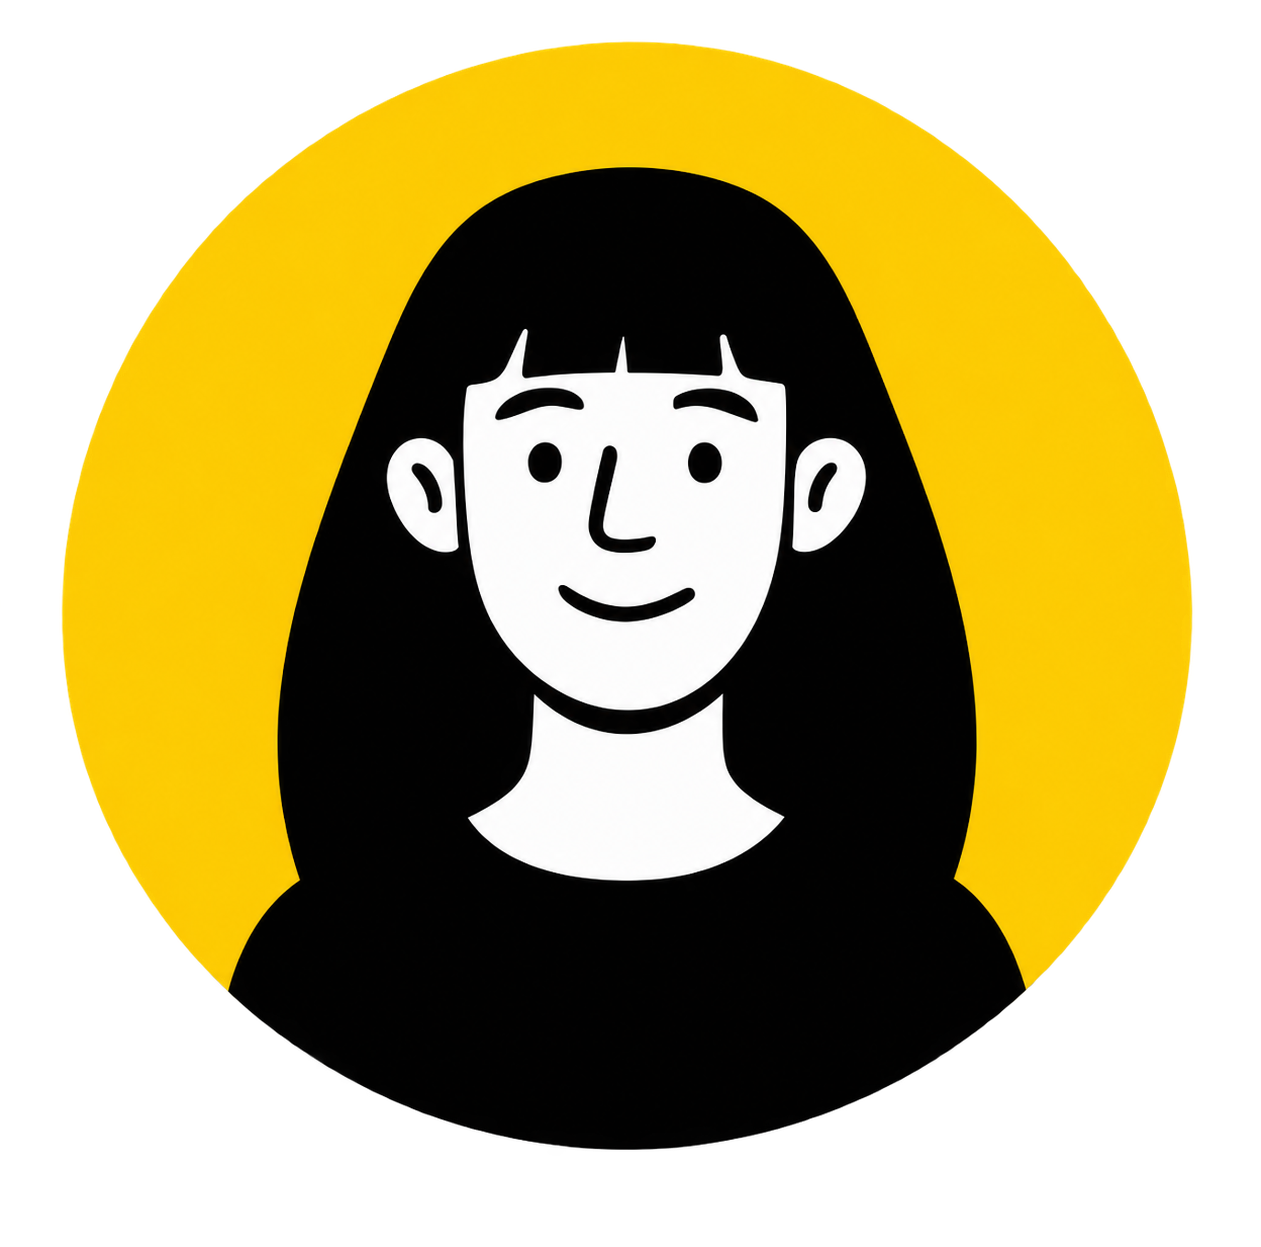
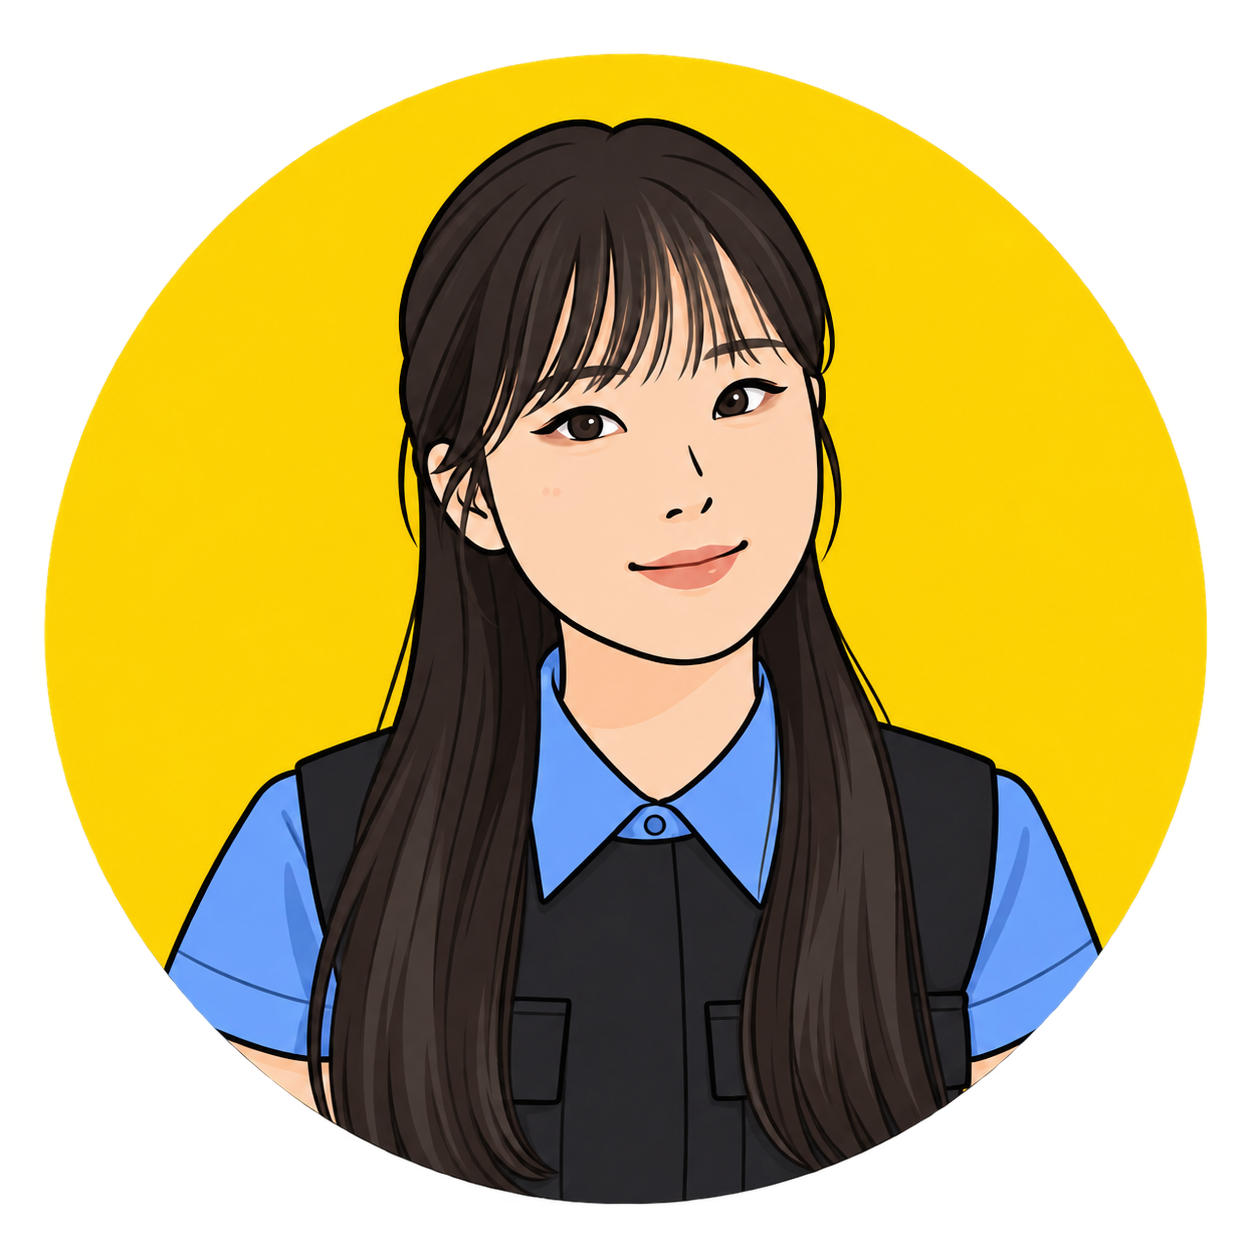
Update team portraits and Youjin profile

diff --git a/dist/team.html b/dist/team.html
@@ -54,7 +54,7 @@
                     <article class="our-hearts__card maker-card surface--outline accent-top-cyan" style="--maker-accent: var(--dot-cyan); --maker-accent-soft: rgba(0, 137, 135, 0.08);">
                         <div class="maker-card__top">
                             <div class="maker-card__portrait maker-card__portrait--tealart">
-                                <img src="images/maker_second_glasses2.png?v=20260708a" alt="두 번째 교재 만든이 일러스트" class="maker-card__portrait-img" />
+                                <img src="images/제작진/이송용.png" alt="이송용 교재 개발 일러스트" class="maker-card__portrait-img" />
                             </div>
                             <div class="maker-card__identity">
                                 <span class="maker-card__eyebrow">교재 개발</span>
@@ -105,9 +105,11 @@
                         </div>
                         <p class="maker-card__summary">교재의 내용이 단정하고 세련되게 보이도록 여백, 색감, 이미지, 표지까지 일관된 시각 언어로 정리합니다.</p>
                         <ul class="maker-card__highlights">
-                            <li>서울여자대학교 현대미술 전공</li>
-                            <li>아동미술교육 및 장애인복지관 미술교육 강사</li>
-                            <li>현직 일러스트레이터·디자이너, 초등 교과서 및 교육 콘텐츠 일러스트레이션 제작</li>
+                            <li>서울여자대학교 현대미술 전공 · 교육 콘텐츠 디자이너·일러스트레이터</li>
+                            <li>초등 교과서·교육 콘텐츠 일러스트 및 편집디자인</li>
+                            <li>아동미술 교육 6년 · 장애인복지관 미술강사</li>
+                            <li>굿초이스 브랜드 운영 · 성경 기반 굿즈 및 콘텐츠 개발</li>
+                            <li>월간지 《샘터》 나태주 시인 연재 삽화</li>
                         </ul>
                         <div class="maker-card__quote">“아이들의 마음에 좋은 배움과 가치가 오래 머물도록, 따뜻하고 의미 있는 시각 언어를 만듭니다.”</div>
                     </article>

diff --git a/team.html b/team.html
@@ -54,7 +54,7 @@
                     <article class="our-hearts__card maker-card surface--outline accent-top-cyan" style="--maker-accent: var(--dot-cyan); --maker-accent-soft: rgba(0, 137, 135, 0.08);">
                         <div class="maker-card__top">
                             <div class="maker-card__portrait maker-card__portrait--tealart">
-                                <img src="images/maker_second_glasses2.png?v=20260708a" alt="두 번째 교재 만든이 일러스트" class="maker-card__portrait-img" />
+                                <img src="images/제작진/이송용.png" alt="이송용 교재 개발 일러스트" class="maker-card__portrait-img" />
                             </div>
                             <div class="maker-card__identity">
                                 <span class="maker-card__eyebrow">교재 개발</span>
@@ -105,9 +105,11 @@
                         </div>
                         <p class="maker-card__summary">교재의 내용이 단정하고 세련되게 보이도록 여백, 색감, 이미지, 표지까지 일관된 시각 언어로 정리합니다.</p>
                         <ul class="maker-card__highlights">
-                            <li>서울여자대학교 현대미술 전공</li>
-                            <li>아동미술교육 및 장애인복지관 미술교육 강사</li>
-                            <li>현직 일러스트레이터·디자이너, 초등 교과서 및 교육 콘텐츠 일러스트레이션 제작</li>
+                            <li>서울여자대학교 현대미술 전공 · 교육 콘텐츠 디자이너·일러스트레이터</li>
+                            <li>초등 교과서·교육 콘텐츠 일러스트 및 편집디자인</li>
+                            <li>아동미술 교육 6년 · 장애인복지관 미술강사</li>
+                            <li>굿초이스 브랜드 운영 · 성경 기반 굿즈 및 콘텐츠 개발</li>
+                            <li>월간지 《샘터》 나태주 시인 연재 삽화</li>
                         </ul>
                         <div class="maker-card__quote">“아이들의 마음에 좋은 배움과 가치가 오래 머물도록, 따뜻하고 의미 있는 시각 언어를 만듭니다.”</div>
                     </article>
